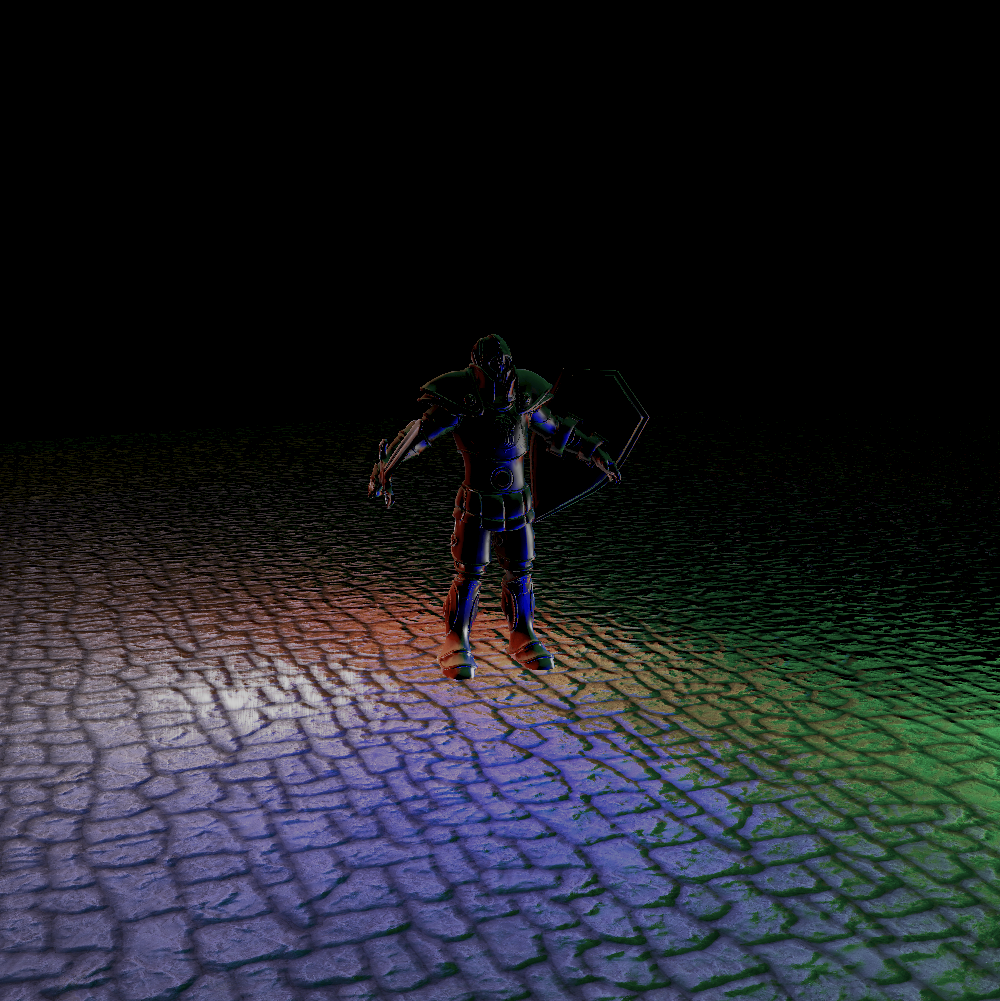
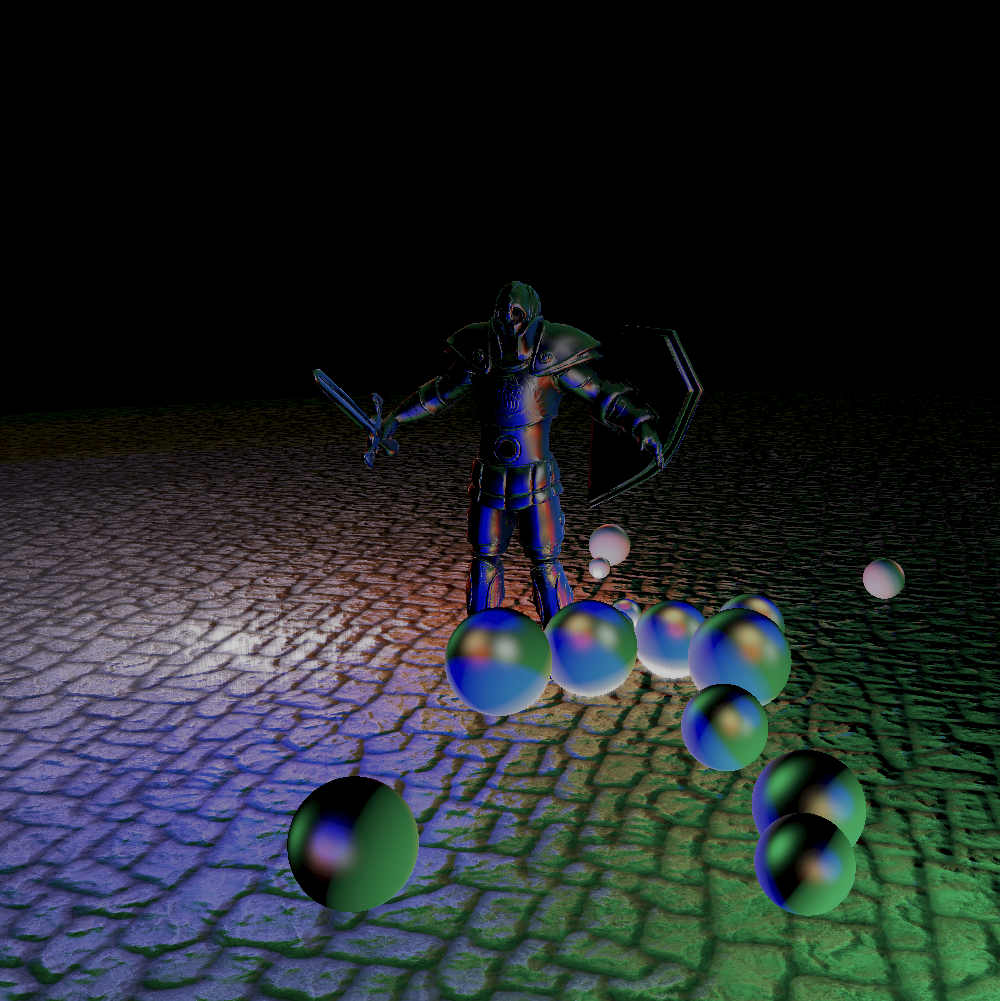
Update deferred scene

diff --git a/engine/src/scene/sceneList/deferred.cpp b/engine/src/scene/sceneList/deferred.cpp
@@ -127,6 +127,54 @@ Result DeferredScene::load(platform::Context* platformContext)
         model::Instance* instance = object->instantiate(context, transform.get(), true);
     }
 
+    // sphere
+    {
+        model::Material* material = new model::Material();
+        try(material->init(context));
+        // albedo 0
+        {
+            material->updateTexture(model::MaterialFlag::BaseColorTexture, renderTargets->getWhiteDummy());
+        }
+        // albedo 0
+        {
+            material->updateTexture(model::MaterialFlag::NormalTexture, renderTargets->getWhiteDummy());
+        }
+        try(material->update(context));
+
+        rhi::ShaderParameters shaderParameters;
+        shaderParameters.vertexShader = context->allocateVertexShader(
+            "deferred/geometry.vert.spv", rhi::VertexChannel::Position | rhi::VertexChannel::Uv |
+                                              rhi::VertexChannel::Normal | rhi::VertexChannel::Tangent |
+                                              rhi::VertexChannel::Bitangent);
+        shaderParameters.pixelShader = context->allocatePixelShader("deferred/geometry.frag.spv");
+
+        auto loader = model::gltf::Loader::Builder()
+                          .setPath("")
+                          .setFileName("sphere.gltf")
+                          .setMaterialFlags(model::MaterialFlag::NONE)
+                          .setGltfLoadingFlags(model::GltfLoadingFlag::FlipY)
+                          .setShaderParameters(&shaderParameters)
+                          .addExternalMaterial(material)
+                          .build();
+
+        model::Object* object = loader->load(context, this);
+        registerObject(context, object);
+
+        const uint32_t num_sphere = 15;
+        glm::vec3 transforms[num_sphere] = {{2, -0.7, 2},     {7, -0.6, 2},    {3, -0.5f, -1},  {0, -0.55f, 0},
+                                            {-5, -0.35f, -3}, {1, -0.65, 1},   {-2, -0.25, 1},  {5, -0.55f, -2},
+                                            {1, -0.67f, -1},  {6, -0.45f, -2}, {-1, -0.5f, -1}, {2, -0.29, -1},
+                                            {-5, -0.2f, 2},   {-1, -0.3f, 1},  {-6, -0.4f, 2}};
+
+        for (int i = 0; i < num_sphere; i++)
+        {
+            util::Transform transform;
+            transform.translate(glm::vec3(transforms[i].x, transforms[i].y, transforms[i].z));
+            transform.scale(glm::vec3(-transforms[i].y));
+            model::Instance* instance = object->instantiate(context, transform.get(), true, true);
+        }
+    }
+
     view->setView(glm::vec3(-9.0f, 4.5f, -5.5f), glm::vec3(-9.9f, -70.0f, 0.0f));
     view->setPerspective(45.0f, 1, 0.1f, 64.f);
     view->updateViewMatrix();

diff --git a/engine/src/scene/rendertargets.cpp b/engine/src/scene/rendertargets.cpp
@@ -43,6 +43,16 @@ Result RenderTargets::init(platform::Context* platformContext)
 
     bloomVertical = new rhi::Texture("bloomVertical");
     try(bloomVertical->init(context, rhi::Format::R8G8B8A8_UNORM, extent, 1, 1, rhi::ImageUsage::COLOR_ATTACHMENT));
+
+    uint32_t white = -1;
+    whiteDummy = new rhi::Texture("whiteDummy");
+    try(whiteDummy->init(context, rhi::Format::R8G8B8A8_UNORM, {1, 1, 1},
+                         rhi::ImageUsage::COLOR_ATTACHMENT | rhi::ImageUsage::SAMPLED, sizeof(uint32_t), &white));
+
+    uint32_t black = 0;
+    blackDummy = new rhi::Texture("blackDummy");
+    try(blackDummy->init(context, rhi::Format::R8G8B8A8_UNORM, {1, 1, 1},
+                         rhi::ImageUsage::COLOR_ATTACHMENT | rhi::ImageUsage::SAMPLED, sizeof(uint32_t), &black));
     /*
         rhi::Extent3D brdfExtent = {512, 512, 1};
         brdfLutTexture = new rhi::Texture("BRDF LUT Texture");
@@ -99,5 +109,8 @@ void RenderTargets::terminate(platform::Context* platformContext)
     TERMINATE(bloomSetup, context);
     TERMINATE(bloomHorizontal, context);
     TERMINATE(bloomVertical, context);
+
+    TERMINATE(whiteDummy, context);
+    TERMINATE(blackDummy, context);
 }
 } // namespace scene

diff --git a/engine/src/scene/rendertargets.h b/engine/src/scene/rendertargets.h
@@ -49,5 +49,8 @@ class RenderTargets
     REGISTER_TEXTURE(environmentCube, getEnvironmentCube);
     REGISTER_TEXTURE(irradianceCube, getIrradianceCube);
     REGISTER_TEXTURE(preFilterCube, getPreFilterCube);
+
+    REGISTER_TEXTURE(whiteDummy, getWhiteDummy);
+    REGISTER_TEXTURE(blackDummy, getBlackDummy);
 };
 } // namespace scene
